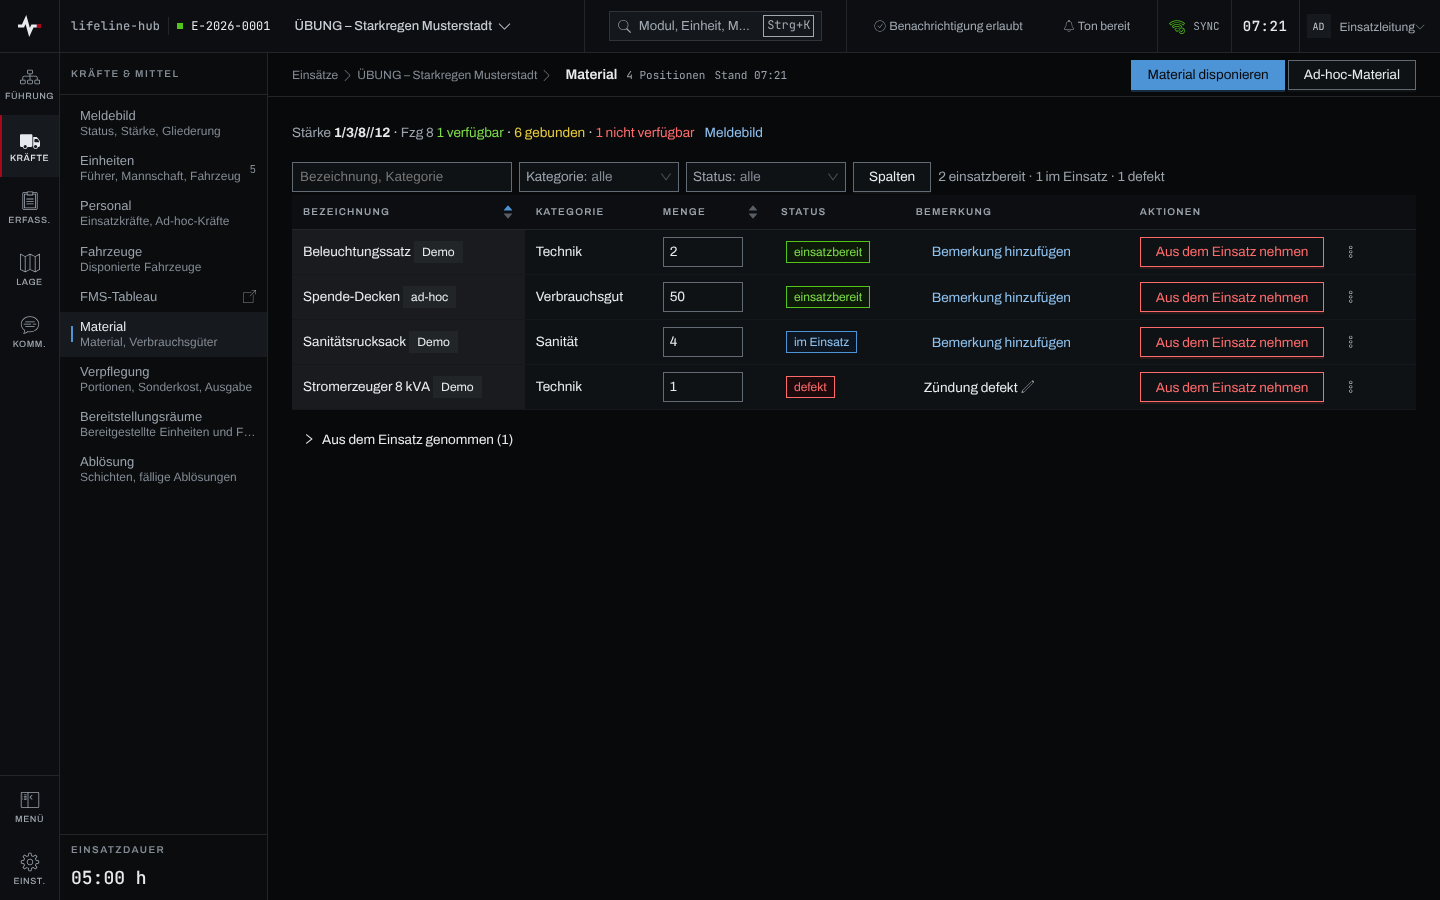
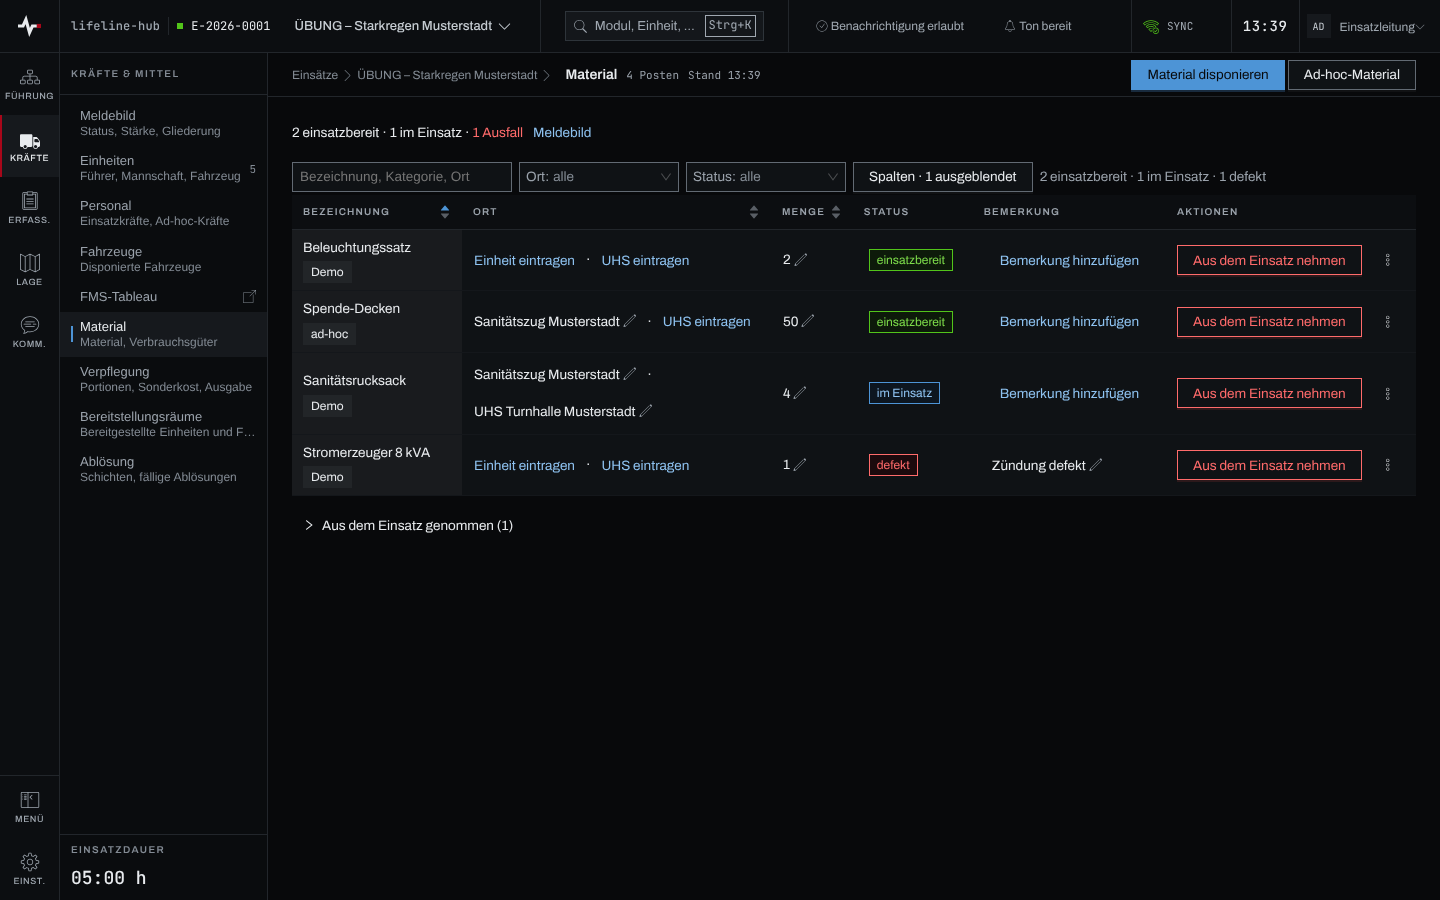
docs(material): Ort, Zählung, Angaben ändern und Aufteilen im Kapitel Material
Neue Abläufe „Den Ort ändern“, „Angaben eines Ad-hoc-Postens
korrigieren“ und „Einen Posten aufteilen“; „Die Materialliste lesen“
mit Verdichtung und Ort-Filter, die Menge mit ausdrücklichem Speichern.
Hintergrund zur Doppelregel Einheit und UHS, zur Zählung (Ausfall =
defekt, verbraucht, Desinfektion nötig), zu den ETB-Texten und zu den
Rechten des Einheiten- und UHS-Teils. Bildlauf um die Dialoge „Angaben
ändern“ und „Aufteilen“ erweitert, die Liste neu aufgenommen.

Zunder: https://zunder.rubeen.dev/#/aufgabe/jg4xxyf0l8knzebcopwx32gy

Claude-Session: https://claude.ai/code/session_01DDFgqKuDE2TAXVLAHHoUGt

diff --git a/frontend/e2e/doku-bilder/material.bilder.ts b/frontend/e2e/doku-bilder/material.bilder.ts
@@ -15,17 +15,24 @@ import {
  *
  * Gezeigte Ansichten — wer sie umbaut, erzeugt die Bilder neu
  * (`pnpm doku:bilder --grep material`, Mitänderungsregel in `docs/anwender/AGENTS.md`):
- *   material.png              frontend/src/pages/MaterialPage.tsx, frontend/src/components/Datensicht.tsx
+ *   material.png              frontend/src/pages/MaterialPage.tsx, frontend/src/components/Datensicht.tsx,
+ *                             frontend/src/kraefte/MaterialVerdichtung.tsx,
+ *                             frontend/src/kraefte/MaterialOrt.tsx
  *   material-disponieren.png  frontend/src/pages/MaterialPage.tsx (Dialog „Material disponieren“)
  *   adhoc-material.png        frontend/src/pages/MaterialPage.tsx (Dialog „Ad-hoc-Material ohne
  *                             Stammeintrag“)
  *   aus-dem-einsatz.png       frontend/src/kraefte/EntlassenBlock.tsx (Block „Aus dem Einsatz
  *                             genommen“ unter der Liste)
+ *   angaben-aendern.png       frontend/src/kraefte/MaterialAngabenModal.tsx (Dialog „Angaben zu …
+ *                             ändern“)
+ *   aufteilen.png             frontend/src/kraefte/MaterialAufteilenModal.tsx (Dialog „… aufteilen“)
  *
  * Demo-Lücke (D3): die Demo-Daten tragen Material nur im Stamm, keines ist im Einsatz. Die Spec
  * disponiert drei Stammposten und einen Ad-hoc-Posten und setzt zwei Status. Für den Block „Aus
  * dem Einsatz genommen“ disponiert sie einen weiteren Ad-hoc-Posten und nimmt ihn wieder heraus
- * (LLH-1079 Teil II).
+ * (LLH-1079 Teil II). Für die Spalte „Ort“ (LLH-1093) ordnet sie den Sanitätsrucksack der ersten
+ * Einheit des Demo-Einsatzes zu und verortet ihn an der ersten geplanten oder aktiven UHS; die
+ * Spende-Decken kommen an dieselbe Einheit.
  */
 
 const KAPITEL = 'material';
@@ -36,6 +43,16 @@ interface Stammmaterial {
 }
 interface EinsatzMaterial {
   id: number;
+}
+interface Einheit {
+  id: number;
+  name: string;
+  aufgeloest_at?: string | null;
+}
+interface Uhs {
+  id: number;
+  status: string;
+  storniert_at?: string | null;
 }
 
 test.describe(KAPITEL, () => {
@@ -61,7 +78,7 @@ test.describe(KAPITEL, () => {
         material_id: posten('Sanitätsrucksack'),
         menge: 4,
       });
-      await fuelle(api, 'post', pfad, {
+      const decken = await fuelle<EinsatzMaterial>(api, 'post', pfad, {
         adhoc: { bezeichnung: 'Spende-Decken', kategorie: 'Verbrauchsgut' },
         menge: 50,
       });
@@ -70,6 +87,25 @@ test.describe(KAPITEL, () => {
         bemerkung: 'Zündung defekt',
       });
       await fuelle(api, 'patch', `${pfad}/${rucksack.id}`, { status: 'im_einsatz' });
+      // Ort (LLH-1093): Einheit über den Einheiten-Weg, UHS über den Material-PATCH.
+      const einheiten = (await (
+        await api.get(`/api/einsaetze/${demo.id}/einheiten`)
+      ).json()) as Einheit[];
+      const einheit = einheiten.find((e) => !e.aufgeloest_at);
+      expect(einheit, 'Demo-Einheit').toBeDefined();
+      const uhsListe = (await (await api.get(`/api/einsaetze/${demo.id}/uhs`)).json()) as Uhs[];
+      const uhs = uhsListe.find(
+        (u) => (u.status === 'geplant' || u.status === 'aktiv') && !u.storniert_at,
+      );
+      expect(uhs, 'Demo-UHS').toBeDefined();
+      for (const em of [rucksack, decken]) {
+        await fuelle(
+          api,
+          'put',
+          `/api/einsaetze/${demo.id}/einheiten/${einheit!.id}/material/${em.id}`,
+        );
+      }
+      await fuelle(api, 'patch', `${pfad}/${rucksack.id}`, { uhs_id: uhs!.id });
       const pavillon = await fuelle<EinsatzMaterial>(api, 'post', pfad, {
         adhoc: { bezeichnung: 'Faltpavillon 3 × 3 m', kategorie: 'Unterkunft' },
         menge: 2,
@@ -139,5 +175,36 @@ test.describe(KAPITEL, () => {
     ).toBeVisible();
     await page.mouse.move(0, 0);
     await fotografiere(block, KAPITEL, 'aus-dem-einsatz');
+  });
+
+  test('Dialog „Angaben ändern“', async ({ page }) => {
+    await anmelden(page);
+    const demo = await demoEinsatz(page);
+    await uhrAnhalten(page);
+    await page.goto(`/einsaetze/${demo.id}/material`);
+    await page.getByRole('button', { name: 'Weitere Aktionen zu Spende-Decken' }).click();
+    await page.getByRole('menuitem', { name: 'Angaben ändern' }).click();
+    const dialog = page.getByRole('dialog', { name: 'Angaben zu Spende-Decken ändern' });
+    await expect(dialog.getByLabel('Bezeichnung')).toHaveValue('Spende-Decken');
+    await dialog.getByLabel('Trägerorganisation').fill('Kleiderkammer');
+    await dialog.getByLabel('Trägerorganisation').blur();
+    await page.mouse.move(0, 0);
+    await expect.poll(async () => (await dialog.boundingBox())?.width ?? 0).toBeGreaterThan(400);
+    await fotografiere(dialog, KAPITEL, 'angaben-aendern');
+  });
+
+  test('Dialog „Aufteilen“', async ({ page }) => {
+    await anmelden(page);
+    const demo = await demoEinsatz(page);
+    await uhrAnhalten(page);
+    await page.goto(`/einsaetze/${demo.id}/material`);
+    await page.getByRole('button', { name: 'Weitere Aktionen zu Spende-Decken' }).click();
+    await page.getByRole('menuitem', { name: 'Aufteilen' }).click();
+    const dialog = page.getByRole('dialog', { name: 'Spende-Decken aufteilen' });
+    await dialog.getByRole('spinbutton', { name: 'Menge abteilen' }).fill('20');
+    await expect(dialog.getByText('Danach 30 + 20')).toBeVisible();
+    await page.mouse.move(0, 0);
+    await expect.poll(async () => (await dialog.boundingBox())?.width ?? 0).toBeGreaterThan(300);
+    await fotografiere(dialog, KAPITEL, 'aufteilen');
   });
 });

diff --git a/docs/anwender/kapitel/material.md b/docs/anwender/kapitel/material.md
@@ -2,27 +2,33 @@
 titel: Material
 gruppen: [fuehrung]
 reihenfolge: 340
-quellen: [frontend/src/pages/MaterialPage.tsx, frontend/src/kraefte/EntlassenBlock.tsx, frontend/src/theme/statusFarben.ts, frontend/src/stammdaten/demoAuswahl.tsx, frontend/src/components/Erfassung.tsx, frontend/src/einsatz/schreibrecht.ts, src/routes/einsatz_material.rs, src/material/disposition_repo.rs, migrations/0019_einsatz_material.sql]
+quellen: [frontend/src/pages/MaterialPage.tsx, frontend/src/kraefte/MaterialOrt.tsx, frontend/src/kraefte/MaterialVerdichtung.tsx, frontend/src/kraefte/materialVerdichtungKern.ts, frontend/src/kraefte/MaterialAngabenModal.tsx, frontend/src/kraefte/MaterialAufteilenModal.tsx, frontend/src/kraefte/EntlassenBlock.tsx, frontend/src/components/InlineAngabe.tsx, frontend/src/pages/uhs/MaterialTab.tsx, frontend/src/theme/statusFarben.ts, frontend/src/stammdaten/demoAuswahl.tsx, frontend/src/components/Erfassung.tsx, frontend/src/einsatz/schreibrecht.ts, src/routes/einsatz_material.rs, src/routes/einsatz_einheit.rs, src/material/mod.rs, src/material/disposition_repo.rs, migrations/0019_einsatz_material.sql]
 ---
 
 ## Überblick
 
 Das Modul **Material** führt Geräte und Verbrauchsgüter, die im Einsatz sind: Posten aus dem
 Materialstamm der Organisation und Ad-hoc-Material ohne Stammeintrag, etwa Spenden oder Material
-einer fremden Organisation. Je Posten stehen Bezeichnung, Kategorie, Menge, Status und Bemerkung.
+einer fremden Organisation. Je Posten stehen Bezeichnung, Kategorie, Ort, Menge, Status und
+Bemerkung. Der Ort nennt die Einheit und die UHS, bei der der Posten liegt.
 
-Die Führung liest hier, was einsatzbereit, im Einsatz, defekt oder verbraucht ist. Disponieren und
-ändern dürfen Einsatzleitung und Führungspersonal.
+Die Führung liest hier, was einsatzbereit, im Einsatz oder ausgefallen ist und wo es liegt.
+Disponieren und ändern dürfen Einsatzleitung und Führungspersonal.
 
 ## Abläufe
 
 ### Die Materialliste lesen
 
 1. Unter „Kräfte & Mittel“ „Material“ öffnen.
-2. Die Liste ist nach Status gruppiert; die Zeile über der Tabelle zählt die Posten je Status. In
-   „Bezeichnung, Kategorie“ suchen oder nach „Kategorie“ und „Status“ filtern.
+2. Die Zeile über der Liste zählt die Posten: „einsatzbereit“, „im Einsatz“ und „Ausfall“.
+   „Meldebild“ führt ins Meldebild.
 
-   ![Materialliste mit vier Posten, darunter ein Ad-hoc-Posten „Spende-Decken“ und ein defekter Stromerzeuger mit Bemerkung, je Posten „Aus dem Einsatz nehmen“, darunter der eingeklappte Block „Aus dem Einsatz genommen (1)“](../bilder/material/material.png)
+   ![Materialliste mit vier Posten; darüber „2 einsatzbereit · 1 im Einsatz · 1 Ausfall“, in der Spalte „Ort“ der Sanitätsrucksack bei „Sanitätszug Musterstadt“ und „UHS Turnhalle Musterstadt“, je Posten „Aus dem Einsatz nehmen“](../bilder/material/material.png)
+
+3. Die Liste ist nach Status gruppiert. In „Bezeichnung, Kategorie, Ort“ suchen oder nach „Ort“
+   und „Status“ filtern. Der Filter „Ort“ kennt „ohne Ort“, jede Einheit und jede UHS der Liste.
+4. Auf schmaleren Schirmen ist die Spalte „Kategorie“ ausgeblendet; „Spalten“ zeigt, wie viele
+   Spalten fehlen, und blendet sie wieder ein.
 
 ### Material aus dem Stamm disponieren
 
@@ -50,15 +56,58 @@ Für Einsatzleitung und Führungspersonal, wenn ein Posten nicht im Materialstam
 
 Ad-hoc-Posten tragen in der Liste die Marke „ad-hoc“.
 
+### Den Ort ändern
+
+Für Einsatzleitung und Führungspersonal:
+
+1. In der Spalte „Ort“ den Einheitsnamen wählen, oder „Einheit eintragen“, wenn der Posten noch
+   keiner Einheit gehört.
+2. Eine Einheit wählen, oder „keine Einheit“, um den Posten von seiner Einheit zu lösen.
+3. „Speichern“ wählen oder Enter drücken. Escape oder „Abbrechen“ lässt den Ort unverändert.
+4. Für die UHS ebenso: den UHS-Namen oder „UHS eintragen“ wählen, eine UHS oder „keine UHS“
+   wählen und speichern. Angeboten werden geplante und aktive UHS.
+
+Einheit und UHS sind zwei getrennte Angaben: Wer die Einheit wechselt, lässt die UHS stehen, und
+umgekehrt.
+
 ### Menge, Status und Bemerkung ändern
 
 Für Einsatzleitung und Führungspersonal:
 
-1. In der Spalte „Menge“ die neue Menge eintippen und mit Enter bestätigen oder das Feld verlassen.
-   Die Menge ist mindestens 1.
+1. In der Spalte „Menge“ die Zahl wählen, die neue Menge eingeben und mit „Speichern“ oder Enter
+   bestätigen. Verlassen ohne Speichern ändert nichts. Die Menge ist mindestens 1.
 2. In der Spalte „Status“ einen Status wählen: einsatzbereit, im Einsatz, defekt, verbraucht oder
    Desinfektion nötig.
 3. In der Spalte „Bemerkung“ „Bemerkung hinzufügen“ wählen und den Text eintragen.
+
+### Angaben eines Ad-hoc-Postens korrigieren
+
+Für Einsatzleitung und Führungspersonal, etwa bei einem Tippfehler in der Bezeichnung:
+
+1. In der Zeile des Postens „Weitere Aktionen“ öffnen und „Angaben ändern“ wählen.
+2. „Bezeichnung“, „Kategorie“, „Trägerorganisation“ oder unter „Weitere Angaben“ die
+   „Bestandsnummer“ ändern. Ein geleertes Feld löscht die Angabe; die Bezeichnung ist Pflicht.
+
+   ![Dialog „Angaben zu Spende-Decken ändern“ mit Bezeichnung, Kategorie, Trägerorganisation „Kleiderkammer“ und dem eingeklappten Teil „Weitere Angaben“](../bilder/material/angaben-aendern.png)
+
+3. „Speichern“ wählen.
+
+Bei einem Posten aus dem Materialstamm heißt der Eintrag „Angaben ändern · im Stamm pflegen“ und
+ist gesperrt: seine Angaben stehen im Materialstamm.
+
+### Einen Posten aufteilen
+
+Für Einsatzleitung und Führungspersonal, wenn ein Teil der Menge woanders gebraucht wird:
+
+1. In der Zeile des Postens „Weitere Aktionen“ öffnen und „Aufteilen“ wählen.
+2. Unter „Menge abteilen“ die Menge für die neue Zeile eingeben, von 1 bis eins unter der
+   Menge. Darunter steht das Ergebnis, etwa „Danach 30 + 20“.
+
+   ![Dialog „Spende-Decken aufteilen“ mit „Menge abteilen“ 20 und dem Ergebnis „Danach 30 + 20“](../bilder/material/aufteilen.png)
+
+3. „Aufteilen“ wählen. Die neue Zeile steht in der Liste; ihren Ort in der Spalte „Ort“ ändern.
+
+Bei Menge 1 heißt der Eintrag „Aufteilen · Menge 1“ und ist gesperrt.
 
 ### Material aus dem Einsatz nehmen
 
@@ -84,22 +133,35 @@ Für Einsatzleitung und Führungspersonal, wenn ein Posten versehentlich disponi
 
 ## Hintergrund
 
+### Ort: Einheit und UHS
+
+Ein Posten kann bei einer Einheit und zugleich an einer UHS liegen; die Spalte „Ort“ zeigt dann
+beides, etwa „Sanitätszug Musterstadt · UHS Turnhalle“. Die Einheit wird über das Modul
+[Einheiten](einheiten.md) gespeichert, dasselbe wie die Zuordnung dort; die UHS gehört zum Posten.
+Eine aufgelöste UHS nimmt kein Material mehr an; Material, das schon dort liegt, bleibt änderbar.
+Im UHS-Reiter „Material“ ist „Material zuordnen“ an einer aufgelösten UHS gesperrt, mit dem Grund
+„UHS aufgelöst“.
+
+### Zählung
+
+Die Zeile über der Liste zählt Posten, nicht Mengen, und immer die ganze Liste, auch wenn ein Filter
+gesetzt ist. „Ausfall“ fasst defekt, verbraucht und Desinfektion nötig zusammen; nur diese Zahl ist
+farbig, und nur, wenn sie über null liegt. Im Meldebild nennt die Zeile einer Einheit den Ausfall
+ihres Materials nach derselben Regel; die Zahl der Kräfte im Meldebild zählt nur Personal und
+Fahrzeuge (Kapitel [Meldebild und Kräfte-Zeitachse](meldebild.md)).
+
 ### Mehrere Posten derselben Art
 
 Derselbe Stammposten lässt sich mehrmals disponieren, jeweils als eigene Zeile mit eigener Menge und
-eigenem Status. So lässt sich eine Menge auf mehrere Einheiten aufteilen. Die Auswahl bietet den
-Materialstamm an, soweit er in Dienst steht; Demo-Posten stehen in einer eigenen Gruppe am Ende.
+eigenem Status. Aufteilen macht aus einer Zeile zwei: Die neue Zeile übernimmt Status, Bemerkung,
+Einheit, UHS und den Zeitpunkt der Disposition, die Ausgangszeile behält den Rest der Menge. Die
+Auswahl beim Disponieren bietet den Materialstamm an, soweit er in Dienst steht; Demo-Posten stehen
+in einer eigenen Gruppe am Ende.
 
 ### Status
 
 Ein disponierter Posten beginnt mit „einsatzbereit“. Die fünf Statuswerte sind fest und gelten für
 jede Organisation.
-
-### Einheiten und Meldebild
-
-Einer Einheit wird Material im Modul [Einheiten](einheiten.md) zugeordnet. Im Meldebild steht
-Material unter der aufgeklappten Einheit und im übernommenen Lagebericht; die Zahl der Kräfte im
-Meldebild zählt nur Personal und Fahrzeuge (Kapitel [Meldebild und Kräfte-Zeitachse](meldebild.md)).
 
 ### Aus dem Einsatz nehmen und Stornieren
 
@@ -112,20 +174,31 @@ legt dagegen immer eine neue Zeile an.
 Stornieren korrigiert eine Fehldisposition und lässt keine Spur. Es geht nur in den ersten 15
 Minuten nach der Disposition und nur, solange der Posten keiner Einheit und keiner UHS zugeordnet
 ist. Wer einmal aus dem Einsatz genommen war, lässt sich auch nach dem erneuten Disponieren nicht
-mehr stornieren. Ein stornierter Posten erscheint in keiner Liste.
+mehr stornieren. Ein stornierter Posten erscheint in keiner Liste. Eine durch Aufteilen entstandene
+Zeile hat dieselbe Frist wie ihre Ausgangszeile.
 
-An einem herausgenommenen oder stornierten Posten lässt sich nichts mehr ändern: Menge, Status und
-Bemerkung setzen und einer Einheit zuordnen lehnt die App ab.
+An einem herausgenommenen oder stornierten Posten lässt sich nichts mehr ändern: Menge, Status,
+Bemerkung, Angaben und Ort setzen sowie aufteilen lehnt die App ab.
 
 ### Einsatztagebuch
 
 Disponieren, jede Mengen- und Statusänderung, das Herausnehmen, das erneute Disponieren und das
-Stornieren stehen im Einsatztagebuch, mit alter und neuer Menge bzw. altem und neuem Status. Eine
-Bemerkung ändert es nicht.
+Stornieren stehen im Einsatztagebuch, mit alter und neuer Menge bzw. altem und neuem Status. Dazu:
+
+- Einheit wechseln: „Einheit «Staffel B»: Material «Wolldecke» (×20) zugeordnet, vorher
+  «Staffel A»“; von der Einheit lösen: „Einheit «Staffel A»: Material «Wolldecke» (×20)
+  freigegeben“.
+- Aufteilen: „Material «Wolldecke» aufgeteilt: 50 → 30 + 20“.
+- Angaben ändern: ein Eintrag, der jede geänderte Angabe mit altem und neuem Wert nennt.
+
+Eine Bemerkung und die UHS eines Postens ändern das Einsatztagebuch nicht.
 
 ### Rechte und ohne Netz
 
-Lesen darf, wer das Modul Material sieht. Disponieren, ändern, aus dem Einsatz nehmen und
-stornieren dürfen Einsatzleitung und Führungspersonal, solange der Einsatz läuft (Kapitel [Rechte im Einsatz](rechte-im-einsatz.md)).
+Lesen darf, wer das Modul Material sieht. Disponieren, ändern, aufteilen, aus dem Einsatz nehmen und
+stornieren dürfen Einsatzleitung und Führungspersonal, solange der Einsatz läuft (Kapitel
+[Rechte im Einsatz](rechte-im-einsatz.md)). Die Einheit im Ort ändert nur, wer auch das Modul
+Einheiten nutzen darf, die UHS nur, wer das Modul Unfallhilfsstellen nutzen darf; sonst ist der
+jeweilige Teil nur lesbar. Wer ein Modul nicht sieht, liest an seiner Stelle „zugeordnet“.
 Ohne Netz bleibt die Liste mit dem zuletzt geladenen Stand lesbar; ändern lässt sich nichts (Kapitel
 [Ohne Netz](ohne-netz.md)).
